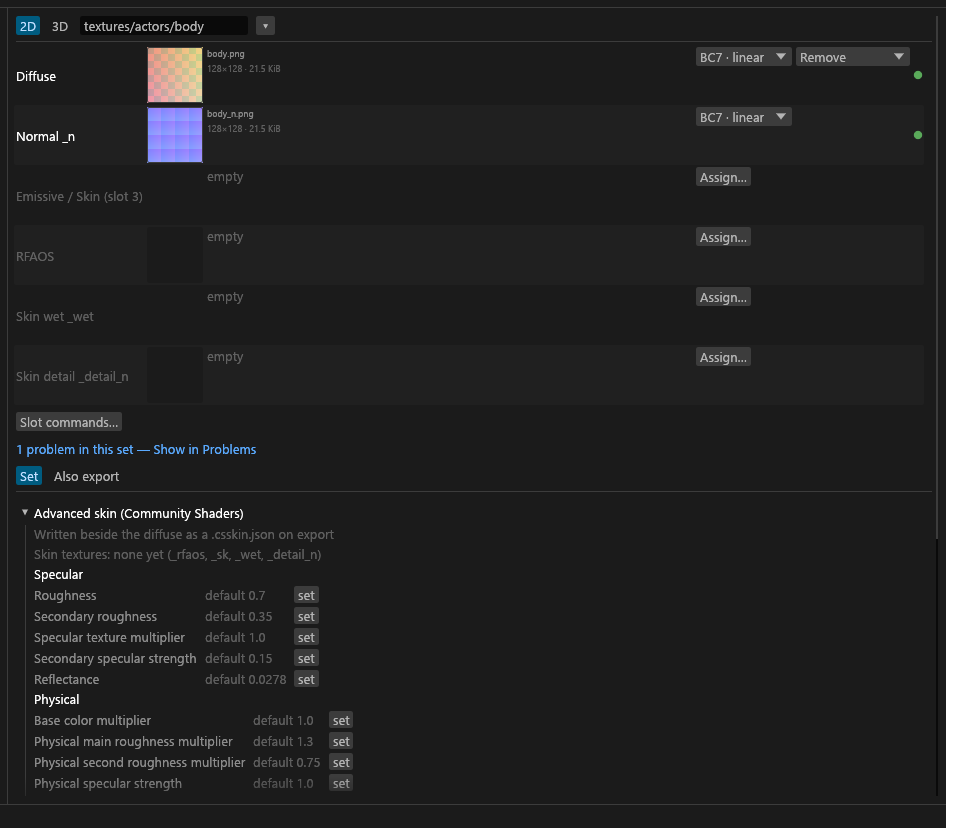
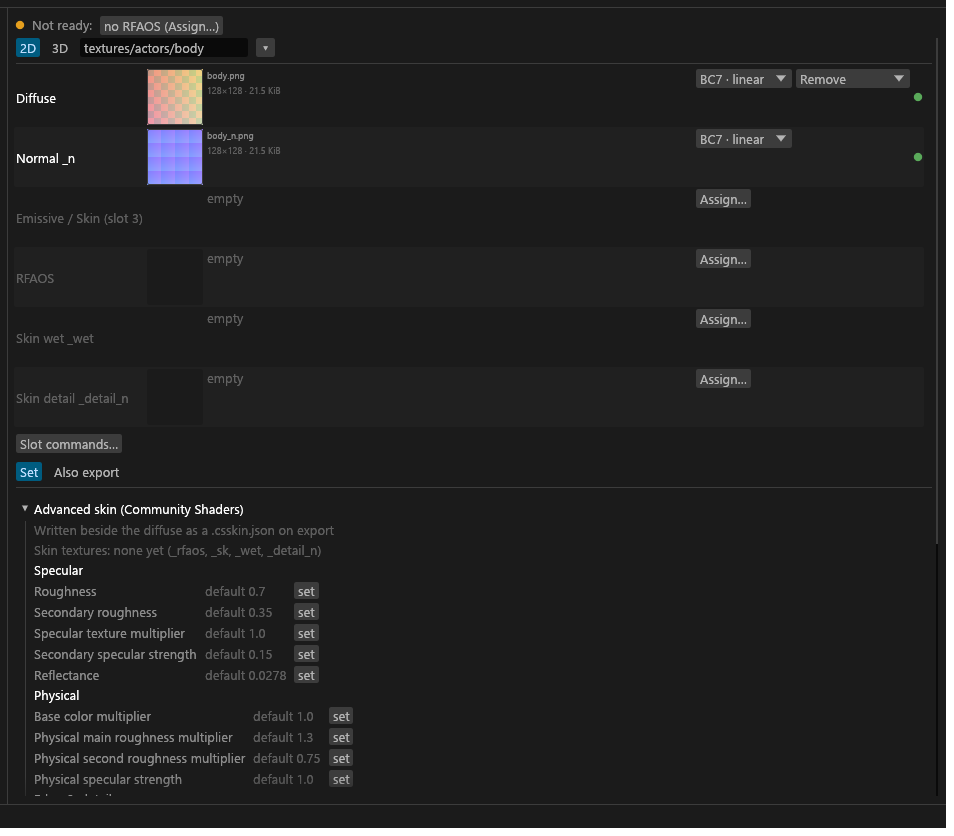
docs: Problems and Notes, set status line (review E plan 3a)

diff --git a/docs/wiki/GUI-Problems.md b/docs/wiki/GUI-Problems.md
@@ -1,10 +1,10 @@
 # Problems
 
-For anyone getting a folder ready to export: the bottom panel's **Problems** tab lists one row per thing that needs you, each with its fix as a button. What a code means is in [Diagnostic codes](Diagnostic-Codes.md).
+For anyone getting a folder ready to export: the bottom panel's **Problems** tab lists one row per thing that needs you, each with its fix as a button, and keeps what Tessalith did on its own under **Notes**. What a code means is in [Diagnostic codes](Diagnostic-Codes.md).
 
 ## Reading a row
 
-Rows come blockers first, then undecided textures, then warnings, then checks and info rows.
+Rows come blockers first, then undecided textures, then warnings, then checks. Notes that have a button come last ([Problems and Notes](#problems-and-notes)). <!-- D:JO3 -->
 
 ![The Problems tab.](../img/gui/GUI-Problems/problems-tab.png)
 
@@ -12,10 +12,21 @@ Rows come blockers first, then undecided textures, then warnings, then checks an
 |---|---|
 | Red | **Blocker**: stops the export. Fix it or remove the texture. |
 | Amber | **Warning** (the export goes ahead) or a decision you owe. |
-| Grey | **Check**, a hint from an artist check ([Texture types](Texture-Types.md#artist-checks)): a map that will probably look wrong in game. It never blocks and never changes "ready". Or an info row. |
+| Grey | **Check**, a hint from an artist check ([Texture types](Texture-Types.md#artist-checks)): a map that will probably look wrong in game. It never blocks and never changes "ready". |
+| Grey, a note | **Info**: something Tessalith did for you, and why the output is fine. **Intended**: a row you marked as intended. |
+| Green, a note | **Queued**: a fix that waits for the next export. <!-- D:JO9 --> |
 | Green, on a tile or card | Nothing to decide. |
 
-A row names where it is (a texture, set or file you can click; "Project" when it belongs to no file) and says the action in words. Hover it for the engine's message and code (`LOSS-ALPHA-DATA`), which is what Troubleshooting uses.
+A row names where it is (a texture, set or file you can click; "Project" when it belongs to no file) and says the action in words. Hover it for the engine's message and code (`LOSS-ALPHA-DATA`), which is what Troubleshooting uses. Its buttons sit right after the sentence: the fix, a second fix if it has one, **Mark as intended**, then **Go to set** on a set row. <!-- D:JO10,JO13 -->
+
+## Problems and Notes
+
+The tab counts the two apart: `Problems (2) · Notes (67)` is 2 rows that need you and 67 that don't. <!-- D:JO3 -->
+
+- **A problem** is a row about an output that may be wrong or a file that isn't written. A set with one isn't ready ([what Ready means](GUI-Sets-Column.md#reading-a-set-card)). Check rows count here too, but never against Ready. <!-- D:JO1,JO5 -->
+- **A note** needs nothing from you: Tessalith used a default and the row says why that's fine (no metallic map, so the surface reads as not metal), you marked the row as intended, or a fix waits for the next export. Notes never count against Ready. <!-- D:JO1,JO2 -->
+- **Where notes show:** the list shows the problems, then the notes that have a button. The **Notes (67)** pill lists every note, or the set's notes while a set filter is on. <!-- D:JO3 -->
+- **Nothing left:** with no row at all the tab reads `Problems`. With only notes it reads `Problems (0) · Notes (67)`, and the list's first line reads "No problems. Notes (67) lists what Tessalith did for you." <!-- D:JO3 -->
 
 ## Rows and their fixes
 
@@ -29,10 +40,15 @@ A row you must act on has its fix as a button.
 | *Undecided: This type isn't available in this mode…* | **Set type…**, or change the mode in **Settings…**. A type with a fallback has **Acknowledge** instead: [Sub-types](Texture-Types.md#sub-types-what-each-file-becomes). <!-- D:JF3 --> |
 | *Undecided: not a cube source (…)* | **Set type…**: the only answer is a different sub-type. |
 | *Alpha: … — confirm* | The **Alpha type** dropdown and **Confirm**: [Deciding](GUI-Texture-Panel.md#deciding). |
-| Warnings on a set | **Go to set**. They never hold back Export or open Review. |
+| Warnings on a set | **Go to set** ([below](#go-to-set)). They never hold back Export or open Review. |
 | A file's export warnings, after an export | Click the file. |
-| Info rows (things Tessalith changed for you) | **Undo this change** while that step is still the last one. <!-- D:FC3 --> |
-| `CHAN-NORMAL-LENGTH`, a short normal | **Rebuild Z**, which sets the file's `channels.reconstruct_z`. |
+| A note about a change Tessalith made for you | **Undo this change** while that step is still the last one. While it has the button the note stays in the list, after the problems. <!-- D:FC3,JO3 --> |
+| `CHAN-NORMAL-LENGTH`, a short normal | **Rebuild Z**, which sets the file's `channels.reconstruct_z`. On a file you already exported the row then reads *Rebuild Z is on for this file: export again to rewrite it*, a queued note with no button, until the next export. <!-- D:JO9 --> |
+| `CHK-Z-SIGN` (a check) | **Rebuild Z**, which clears the row. <!-- D:JO15 --> |
+| `SHADER-EXTRA-MAP`, a note: *{file} isn't read by the {shader} shader…* | **Remove from set** for that file, then **Change shader…**. The removed file goes to the first set that shares it, as its own, else to *no set* ([Textures in no set](GUI-Sets-Column.md#textures-in-no-set)). <!-- D:JO15,JN5 --> |
+| `SHADER-MISSING-MAP`, `SHADER-UNAVAILABLE` | **Change shader…**, a menu of the shaders the set's shader combo offers. <!-- D:JO15 --> |
+| *The file name and the contents point to different types* | **Set type…**, the type picker. <!-- D:JO15 --> |
+| *Parallax is on but the source has no alpha* | **Turn parallax off**, which writes `alpha.parallax = false`. <!-- D:JO15 --> |
 | A PGPatcher feature clash | **Turn off {feature}** for each of the two; neither is the default. <!-- D:FN5 --> |
 | *sdc.toml is read-only* (or `sdc-project.toml`) | **Clear read-only flag**, on that file only. <!-- D:FC10 --> |
 | *Looks like complex grass, but is not tagged as grass* | **Tag as grass**, which writes `subtype = "complex_grass"`. <!-- D:FC10 --> |
@@ -44,7 +60,25 @@ A row you must act on has its fix as a button.
 | *Preset {id} was skipped: it clashes with {other} on aliases* | **Remove aliases from {id}**: [Presets and targets](Presets-and-Targets.md#checking-and-installing). |
 | *{n} saved settings name no file in this mode ({mode})* (grey, on Project; hover lists them) | **Entries ▾** lists each `[files]` entry with its own **Remove**; **Remove all** deletes every one as one undo step. [Before you remove one](#unmatched-files-entries). <!-- D:JI6 --> |
 
-Info rows count in the tab's number but never against "ready".
+**Remove from set**, **Delete set**, **Remove match**, **Turn off {feature}**, **Turn parallax off**, **Clear read-only flag** and **Remove aliases from {id}** run on a mouse click only. Enter and Space do nothing on them, so a key press never takes a file out of a set or switches a feature off. <!-- D:JO16 -->
+
+### Mark as intended
+
+A warning you checked and want to keep as it is (a `_flow` map you made small on purpose) needs no fix:
+
+1. Click **Mark as intended** on its row. The row moves to Notes with a grey dot and stops counting against Ready.
+2. To take it back, click the **Notes (n)** pill, then **Undo mark** on the row.
+
+Each click is one undo step. <!-- D:JO4 -->
+
+- **Where it's kept:** `[project] intended` in `sdc-project.toml`, by the row's code, where it is and its sentence. Renaming a set keeps its marks; deleting the set drops them. When the sentence changes (another file name, another number), the row shows again. <!-- D:JO4 -->
+- **Warnings and checks only:** blockers, questions and a file that failed validation in the last export have no mark. Fix those, or export again. <!-- D:JO4 -->
+- **Greyed** with no project open and while `sdc-project.toml` is read-only; the hover says why. <!-- D:JO4 -->
+- **No mark for a whole kind at once:** hide the kind instead ([Hiding kinds of row](#hiding-kinds-of-row)). <!-- D:JO4 -->
+
+### Go to set
+
+**Go to set** selects the set and opens it in the [Set editor](GUI-Set-Editor.md). When the row is about one slot or file (a missing map, a map the shader doesn't read), the editor scrolls to that slot row or file and outlines it for two seconds. A row about the whole set opens the set and outlines nothing, and so does any row while the editor shows **3D**. <!-- D:JO8,JO14 -->
 
 ### Unmatched [files] entries
 
@@ -76,4 +110,11 @@ When a plan settles, every sub-type taken from a High-confidence suggestion (inc
 
 Click a row's subject to select it in the Textures view. Arriving from a count (**N undecided**, a set's **⚠** badge) opens the list narrowed, with a chip to clear it. The **Checks** pill narrows to check rows.
 
-**Kinds ▾** hides kinds of warning and info row for this project, such as every missing specular. Blocks and questions can't be hidden. A hidden row still counts in the tab's number and in the ready counts.
+## Hiding kinds of row
+
+**Kinds ▾** hides kinds of warning and info row for this project, such as every missing specular. Blocks and questions can't be hidden, and neither can a queued note. Hiding only changes what the list shows: a hidden row still counts for Ready. <!-- D:JO6,HC4 -->
+
+- **The tab** counts hidden problem rows apart: `Problems (12 · 60 hidden)`. A hidden note counts nowhere. <!-- D:JO6 -->
+- **The list's first line** says what is hidden, with the project's numbers: "2 kinds hidden in this project (60 rows). Hidden rows still count for Ready." <!-- D:JO6 -->
+- **Kinds ▾ (n hidden)** counts the rows this list hides, notes included. <!-- D:JO6 -->
+- **Showing them again:** tick the kind again in **Kinds ▾**, or click "+k more in Problems" on a set's status line, which shows the hidden kinds of that set's rows again ([Set editor](GUI-Set-Editor.md#is-the-set-ready)).

diff --git a/docs/wiki/GUI-Set-Editor.md b/docs/wiki/GUI-Set-Editor.md
@@ -4,9 +4,23 @@ For anyone filling a material set's slots, wiring packed channels, or pointing a
 
 ## The set editor
 
-Select a set and the centre column shows its heading row (the input name box, [Bulk editing and renaming](GUI-Bulk-and-Rename.md#input-name-box); the **Match** box on a TruePBR set; **2D | 3D**, see [Previews](Previews.md)), then the slot rows, then two tabs. **Material** (**Set** on a set with no PGPatcher JSON) holds the PGPatcher settings ([PGPatcher settings and the JSON](GUI-PGPatcher-JSON.md#whats-on-the-material-tab)) or a material card ([Advanced skin](PBR-Landscape.md#advanced-skin), [PBR Landscape](PBR-Landscape.md)). **Also export** holds the Vanilla and CM export settings: [Also export tab](#also-export-tab).
+Select a set and the centre column shows whether it is ready ([below](#is-the-set-ready)), its heading row (the input name box, [Bulk editing and renaming](GUI-Bulk-and-Rename.md#input-name-box); the **Match** box on a TruePBR set; **2D | 3D**, see [Previews](Previews.md)), then the slot rows, then two tabs. **Material** (**Set** on a set with no PGPatcher JSON) holds the PGPatcher settings ([PGPatcher settings and the JSON](GUI-PGPatcher-JSON.md#whats-on-the-material-tab)) or a material card ([Advanced skin](PBR-Landscape.md#advanced-skin), [PBR Landscape](PBR-Landscape.md)). **Also export** holds the Vanilla and CM export settings: [Also export tab](#also-export-tab).
 
 ![The set editor.](../img/gui/GUI-Set-Editor/set-editor.png)
+
+## Is the set ready?
+
+The editor's first line answers it, and stays in sight above the slot rows while you scroll. What counts is on [Sets column](GUI-Sets-Column.md#reading-a-set-card). <!-- D:JO7 -->
+
+- "Ready: nothing in this set needs you." with a green dot.
+- "Not ready:" with an amber dot, up to three reasons as buttons, then "+k more in Problems" for the rest.
+- A red dot instead means the set blocks the export, as on its card. <!-- D:JO7 -->
+
+Click a reason to go to its fix:
+
+- **A missing map** reads "no {slot} (Assign…)". The editor switches to 2D if it shows 3D, scrolls to that slot row, outlines it for two seconds and puts the keyboard on its **Assign…**. <!-- D:JO7,JO8 -->
+- **Any other reason** opens Problems on the set's rows, scrolled to that row, with the keyboard on its fix or **Mark as intended**. A hidden kind shows again. <!-- D:JO7 -->
+- **"+k more in Problems"** opens Problems on the set's rows and shows the hidden kinds among them again. <!-- D:JO7 -->
 
 ## Slot rows
 

diff --git a/docs/wiki/Diagnostic-Codes.md b/docs/wiki/Diagnostic-Codes.md
@@ -38,7 +38,7 @@ For anyone who saw a code in the Problems list or a conversion log: what it mean
 | Code | Severity | Meaning | Fix |
 |---|---|---|---|
 | `CHAN-NOT-GRAY` | warning | A grayscale sub-type's or raw map's R, G and B differ by more than 4/255 under the default `r` or `luma`; only the channel `channels.grayscale_source` picks is kept. A `g`, `b` or `a` pick is yours, so it's reported only when that channel holds one value (an `a` pick on a source with no alpha reads 255). The message names the pick and, when the picked channel is flat while another varies, suggests the first varying one. | Pick the channel or the sub-type. |
-| `CHAN-NORMAL-LENGTH` | warning | A normal source is far from unit length, or has no Z. | **Rebuild Z** on its Problems row (sets `channels.reconstruct_z`), or check the sub-type. |
+| `CHAN-NORMAL-LENGTH` | warning | A normal source is far from unit length, or has no Z. | **Rebuild Z** on its Problems row (sets `channels.reconstruct_z`), or check the sub-type. On a file already exported, the row then waits as a queued note until you export again ([Problems](GUI-Problems.md#rows-and-their-fixes)). |
 
 ## Format and tag
 
@@ -154,7 +154,7 @@ The rules and thresholds are on [Validation and output](Validation-and-Output.md
 | `GRASS-SHAPE` | error | A `complex_grass` source isn't a power-of-two 1:2 image. | Supply e.g. 2048x4096. |
 | `GRASS-TOP-OPAQUE` | warning | The top half is fully opaque: no cutout. | Check the alpha. |
 | `GRASS-NORMALS` | warning | Under 99% of the bottom half is unit-length normals. | Check the bottom half is a normal map. |
-| `GRASS-DETECT-SOURCE` | warning | The source's bottom-left texel already fails Community Shaders' detection test. | Fix the corner texel. |
+| `GRASS-DETECT-SOURCE` | warning | A complex-grass source's bottom-left normal isn't unit length, so Community Shaders' detection test fails on the source. Tessalith renormalises the written file, so Community Shaders still reads it as grass, unless `mips.normal_base = keep`: then the file is written as it is and isn't read as grass. | Nothing, unless `mips.normal_base = keep`: then fix the corner texel. The Problems row has no button. <!-- D:JO15 --> |
 | `PBR-GRASS-DETECT` | warning | A PBR grass albedo's bottom-left texel looks like a complex-grass normal, so Community Shaders' grass shadow pass would read it as complex grass and shadows won't match. | Change that texel. |
 
 ## Also export

diff --git a/docs/wiki/GUI-Sets-Column.md b/docs/wiki/GUI-Sets-Column.md
@@ -4,7 +4,7 @@ For anyone grouping textures into material sets: reading a set card, finding a s
 
 ## Reading a set card
 
-One card per material set. A status pill shows what the set is ("vanilla", "PBR → JSON", "PBR, no JSON" for a PBR set on a target that writes none, "PBR Landscape", "skin"), with a red dot when it blocks export, amber when it isn't ready and green when it is. Hover the pill for what the set writes and the state of each packed output. **⚠ n** opens the set's problems, and the shader combo sits on its own row. Click empty card area to open the set.
+One card per material set. A status pill shows what the set is ("vanilla", "PBR → JSON", "PBR, no JSON" for a PBR set on a target that writes none, "PBR Landscape", "skin"), with a red dot when it blocks export, amber when it isn't ready and green when it is. A set is ready when neither it nor its textures has a problem row; notes, rows you marked as intended and checks don't count ([Problems and Notes](GUI-Problems.md#problems-and-notes)). <!-- D:JO5 --> The hovers of the status pill and of the *Ready* and *Not ready* filter pills say so too. Hover the pill for what the set writes and the state of each packed output. **⚠ n** opens the set's problems, and the shader combo sits on its own row. Click empty card area to open the set.
 
 Under it is one chip per slot of the shader, lettered by the slot's suffix. On an Advanced skin set the RMAOS chip reads RFAOS, and the letter sits bottom-left on every chip. <!-- D:HE1 --> A small thumbnail on a chip's corner is a [helper](Texture-Packing.md#helper-textures) feeding that slot. An amber outline marks a slot borrowed from another set, and a red **?** a borrow whose set is gone or a file that is gone. A slot shared from a set that shares it in turn reads the set that has the file; a loop of shares fills nothing and shows the **?**. <!-- D:JN1 --> Delete that middle set, or **Clear** its share, and the far set keeps the texture: its share passes on to the set the middle one shared from. <!-- D:JN4 --> Right-click a **?** for **Remove from set** (or **Delete set** when nothing is left); each one is also a Problems row.
 
